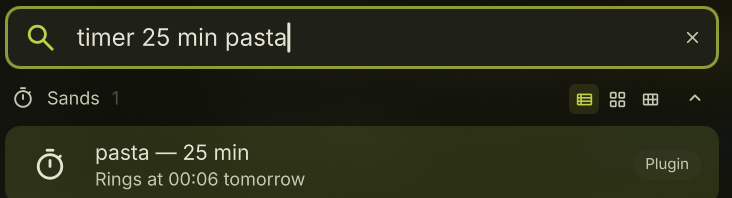
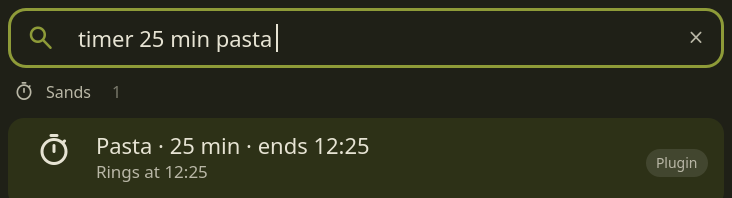
NAK 190 sands 1 5 0 sortie de version apr s les d coupages et le langage naturel (#17)
* docs(release): Sands 1.5.0 section, launcher picture and test counts (NAK-190)

* fix(pill): restore the 30 Hz final-countdown beat dropped by the release commit (NAK-190)

The release commit reverted the NAK-194 code but not its notes. The code is back
(components, bench scenes, CONTRIBUTING) and the changelog line moves to Unreleased
because the v1.5.0 tag does not contain it.

* chore(release): Sands 1.5.1 — ships the idle-timer change missing from 1.5.0 (NAK-190)

diff --git a/scripts/preview/launcher-shot.qml b/scripts/preview/launcher-shot.qml
@@ -1,0 +1,175 @@
+import QtQuick
+import QtQuick.Window
+import qs.Widgets
+import "../../TimeParser.js" as TP
+import "../../Preview.js" as Preview
+
+// Offscreen picture of the launcher row for docs/images/launcher.png: the real
+// parser and preview lines (what TimerLauncher builds) answer a made-up query,
+// drawn inside a stand-in of the DMS launcher. The clock is a fixed instant,
+// so "ends 12:25" never depends on the machine.
+// Usage: TZ=UTC QT_QPA_PLATFORM=offscreen qml-qt6 -I imports launcher-shot.qml -- <out.png>
+Window {
+    id: win
+
+    readonly property string out: Qt.application.arguments[Qt.application.arguments.length - 1]
+    readonly property string query: "timer 25 min pasta"
+    // Olive palette of the original picture, so the guide keeps its look
+    readonly property color bg: "#1f2017"
+    readonly property color accent: "#8e9b38"
+    readonly property color text: "#e6e3d3"
+    readonly property color muted: "#b9b7a6"
+    property var item: ({
+            name: "",
+            comment: ""
+        })
+
+    width: 732
+    height: 198
+    visible: true
+
+    Rectangle {
+        anchors.fill: parent
+        color: win.bg
+    }
+
+    Component.onCompleted: {
+        const now = Date.UTC(2026, 9, 9, 12, 0, 0);
+        const r = TP.parse(win.query, now, {
+            keyword: false
+        })[0];
+        win.item = {
+            name: Preview.previewLine(r, now, true),
+            comment: Preview.ringsLine(r, now, true)
+        };
+    }
+
+    // Search field
+    Rectangle {
+        x: 8
+        y: 8
+        width: parent.width - 16
+        height: 60
+        radius: 18
+        color: "transparent"
+        border.width: 3
+        border.color: win.accent
+
+        DankIcon {
+            x: 18
+            anchors.verticalCenter: parent.verticalCenter
+            name: "search"
+            size: 30
+            color: win.accent
+        }
+        StyledText {
+            id: typed
+            x: 70
+            anchors.verticalCenter: parent.verticalCenter
+            text: win.query
+            font.pixelSize: 22
+            color: win.text
+        }
+        Rectangle {
+            x: typed.x + typed.implicitWidth + 4
+            anchors.verticalCenter: parent.verticalCenter
+            width: 2
+            height: 28
+            color: win.text
+        }
+        DankIcon {
+            anchors.right: parent.right
+            anchors.rightMargin: 18
+            anchors.verticalCenter: parent.verticalCenter
+            name: "close"
+            size: 20
+            color: win.muted
+        }
+    }
+
+    // Section header
+    DankIcon {
+        x: 14
+        y: 82
+        name: "timer"
+        size: 20
+        color: win.muted
+    }
+    StyledText {
+        x: 46
+        y: 82
+        height: 20
+        text: "Sands"
+        font.pixelSize: 16
+        color: win.muted
+    }
+    StyledText {
+        x: 112
+        y: 82
+        height: 20
+        text: "1"
+        font.pixelSize: 16
+        color: Qt.rgba(win.muted.r, win.muted.g, win.muted.b, 0.6)
+    }
+
+    // The result row
+    Rectangle {
+        x: 8
+        y: 118
+        width: parent.width - 16
+        height: 90
+        radius: 16
+        color: "#2d3117"
+
+        DankIcon {
+            x: 28
+            y: 14
+            name: "timer"
+            size: 36
+            color: win.text
+        }
+        StyledText {
+            x: 88
+            y: 12
+            width: 480
+            height: 30
+            text: win.item.name
+            font.pixelSize: 22
+            color: win.text
+        }
+        StyledText {
+            x: 88
+            y: 42
+            width: 480
+            height: 24
+            text: win.item.comment
+            font.pixelSize: 17
+            color: win.muted
+        }
+        Rectangle {
+            anchors.right: parent.right
+            anchors.rightMargin: 16
+            anchors.verticalCenter: parent.verticalCenter
+            width: 62
+            height: 28
+            radius: 14
+            color: Qt.rgba(1, 1, 1, 0.1)
+
+            StyledText {
+                anchors.centerIn: parent
+                text: "Plugin"
+                font.pixelSize: 14
+                color: win.muted
+            }
+        }
+    }
+
+    Timer {
+        interval: 600
+        running: true
+        onTriggered: win.contentItem.grabToImage(r => {
+            r.saveToFile(win.out);
+            Qt.quit();
+        })
+    }
+}

diff --git a/scripts/preview/shot.qml b/scripts/preview/shot.qml
@@ -9,7 +9,9 @@ import "mock"
 // Usage: QT_QPA_PLATFORM=offscreen qml -I imports shot.qml -- <mode> <out.png>
 // Modes:
 //   pill-idle, pill-running, pill-label (right after a start), pill-done,
-//   pill-4 (four timers), panel, panel-paused, panel-ringing, panel-4
+//   pill-4 (four timers), pill-beat (final-countdown beat), pill-bell (ringing
+//   with the sound on, the bell swings), pill-short (a 2 min timer: the ring
+//   steps 0.8 % a second, so its Behavior plays; the three bench only), panel, panel-paused, panel-ringing, panel-4
 //   (four 1 h timers), panel-toggle (pause and resume every 2 s, bench
 //   only, with "-hold"), hourglass-running, hourglass-frozen, hourglass-ringing
 // Suffixes: "-reduce" turns Reduce motion on (the sand and the float stand
@@ -35,6 +37,9 @@ Window {
             "pill-running": [["running", "Pasta", 20 * mm, 12 * mm + 34000, 0]],
             "pill-label": [["running", "Pasta", 20 * mm, 12 * mm + 34000, 0]],
             "pill-done": [["ringing", "Tea", 4 * mm, 0, 0]],
+            "pill-beat": [["running", "Tea", 4 * mm, 9000, 0]],
+            "pill-bell": [["ringing", "Tea", 4 * mm, 0, 0]],
+            "pill-short": [["running", "Tea", 2 * mm, 110000, 0]],
             "pill-4": [["running", "Run", 60 * mm, 59 * mm, 0], ["running", "Bake", 60 * mm, 59 * mm + 1000, 1], ["running", "Read", 60 * mm, 59 * mm + 2000, 2], ["running", "Laundry", 60 * mm, 59 * mm + 3000, 3]],
             "panel": [["running", "Pasta", 20 * mm, 12 * mm + 34000, 0], ["running", "Laundry", 45 * mm, 31 * mm, 1]],
             "panel-paused": [["paused", "Pasta", 20 * mm, 12 * mm + 34000, 0]],
@@ -65,6 +70,7 @@ Window {
     property bool ready: false
     Component.onCompleted: {
         SettingsData.reduceMotion = win.reduce;
+        daemon.soundActive = win.mode === "pill-bell";
         daemon.load(win.scenes[win.mode] ?? []);
         PluginService.pluginDaemonInstances = {
             "smartTimer": daemon

diff --git a/components/PillClock.qml b/components/PillClock.qml
@@ -4,7 +4,9 @@ import QtQuick
 // Animators: those would make every DMS window redraw at the
 // display rate for as long as the alarm rings (possibly for
 // hours if nobody is there); this only redraws the bar. 60 Hz
-// for the quick beat and bell, 30 Hz for the slow breathing.
+// only for the quick bell swing (70 ms); the final-countdown beat
+// (110 ms rise) and the slow breathing look the same at 30 Hz and
+// cost half the bar redraws.
 //
 // An alarm nobody answers does not animate forever: like the
 // sound, the pill stops moving after the alarm duration and

diff --git a/components/HorizontalPill.qml b/components/HorizontalPill.qml
@@ -59,7 +59,7 @@ Item {
         id: clock
         daemon: pill.daemon
         timerState: pill.st
-        fast: pill.beating || pill.bellShaking
+        fast: pill.bellShaking
         running: !pill.asleep && ((pill.st === "ringing" && !clock.settled) || pill.beating)
     }
 

diff --git a/CHANGELOG.md b/CHANGELOG.md
@@ -5,6 +5,18 @@ The format follows [Keep a Changelog](https://keepachangelog.com/en/1.1.0/) and 
 
 ## Unreleased
 
+## 1.5.1 - 2026-10-09
+
+### Changed
+
+- The bar pill's final-countdown beat now ticks at 30 Hz instead of 60 Hz (the bell swing keeps 60 Hz): half the bar redraws during the last ten seconds, same beat. Offscreen bench, pill in its final countdown: 0.36 % → 0.21 % of one core (below the noise of this bench). Nothing animates while idle.
+
+### Fixed
+
+- 1.5.0 was published without the idle-timer change of NAK-194 (the pill's final-countdown beat stayed at 60 Hz). 1.5.1 ships it; the rest is documentation (launcher picture, test counts).
+
+## 1.5.0 - 2026-10-09
+
 ### Added
 
 - **A more natural launcher** (Win + Space), in English and French, nothing sent anywhere:
@@ -12,8 +24,10 @@ The format follows [Keep a Changelog](https://keepachangelog.com/en/1.1.0/) and 
   - **Natural clock times**: `wake me up at 7`, `réveille-moi à 7h`, `until 6pm`, `tonight at 9`, `ce soir à 9h`, `tomorrow at 8`, `demain 8h`, `noon`, `midi`, `minuit`, `7 du soir`, `7 in the morning`. A bare hour after `at` / `à` is the next occurrence within 24 h; `tomorrow` is the next calendar day. `8h` alone lists both readings (8 h timer, then 08:00) and nothing starts before Enter.
   - **One-line preview** under what you type: `Pasta · 12 min · ends 12:42`, `Wake up · at 07:00 tomorrow`, `Timer · 12 min · ends 12:42` (no name), with `Rings in/at …` below.
   - **Unknown words**: a timer keyword with nothing readable shows `Unknown word « … »` and Enter opens the guide.
-  - Documented in the new guide sections *Natural phrases* and *What the launcher shows*, and in the README *Launcher syntax*. Per-keystroke cost of the parser: not measured yet (the Performance Engineer's bench of NAK-153 will give the figure).
+  - Documented in the new guide sections *Natural phrases* and *What the launcher shows*, and in the README *Launcher syntax*. Per-keystroke cost of the parser: not measured.
   - Delivered in four parts: NAK-150 (durations), NAK-151 (clock times), NAK-152 (preview), NAK-153 (documentation).
+- `sounds/` with the two rings (41 KB), and `tools/sounds/`, the script that renders Hourglass bit for bit (python3 and ffmpeg).
+- Offscreen preview scenes in `scripts/preview/` (pill, panel, hourglass, four timers) rendered from made-up timers, with reference pictures and a compare script, so refactors can be proven pixel-identical. Development tooling only: the plugin loads nothing from it and nothing changes for users. See *Offscreen previews and bench* in `CONTRIBUTING.md`.
 
 ### Changed
 
@@ -22,14 +36,6 @@ The format follows [Keep a Changelog](https://keepachangelog.com/en/1.1.0/) and 
 - Internal only: `TimerWidget.qml` (19 KB) is split by role into small files in `components/` (horizontal and vertical pill, glyph, name, time, badge, motion clock, hover, clicks). The pill scenes are byte-identical to their reference pictures (panel scenes within their tolerance), and the pill's timers and animations are unchanged (nothing runs at rest). See *Project layout* in `CONTRIBUTING.md`.
 - The default alarm is now **Hourglass**, a soft four-note glass ring made for Sands, instead of the freedesktop alarm clock. **Silt Chime**, a short bell (CC0), is the second choice in *Sound*.
 - The former default is now a normal entry in the list of installed sounds. A sound you picked yourself keeps playing; only an unset *Sound* (or the former "Alarm clock (default)") now plays Hourglass.
-
-### Added
-
-- `sounds/` with the two rings (41 KB), and `tools/sounds/`, the script that renders Hourglass bit for bit (python3 and ffmpeg).
-- Offscreen preview scenes in `scripts/preview/` (pill, panel, hourglass, four timers) rendered from made-up timers, with reference pictures and a compare script, so refactors can be proven pixel-identical. Development tooling only: the plugin loads nothing from it and nothing changes for users. See *Offscreen previews and bench* in `CONTRIBUTING.md`.
-
-### Changed
-
 - A lighter download: the README and guide images weigh 1.62 MB instead of 1.97 MB (-18 %). PNGs are recompressed without any pixel change; the two animations (`freeze.gif`, `flip.gif`) use a light lossy GIF pass whose largest per-frame difference is invisible (worst frame 49.8 dB PSNR). Names, sizes, frame counts, delays and looping are unchanged.
 - Internal: `TimerDaemon.qml` (27 KB) is split by role into `components/daemon/` (persistence, sounds, end notification, `dms ipc` commands) with its pure rules in tested `.js` files. Behaviour is unchanged: same IPC answers, alarm, notification and saved state, and nothing new runs at rest. A small test (`tests/daemon-surface.test.js`) checks that every daemon member the views read is still declared.
 

diff --git a/CONTRIBUTING.md b/CONTRIBUTING.md
@@ -58,6 +58,8 @@ Logic that can be tested lives in **pure `.js` files** with no QML:
 - `Guide.js`: the short notes shown when something can't be done (title, hint, guide anchor); a test checks every anchor exists in `docs/GUIDE.md`.
 - `components/Motion.js`: every looping motion as a pure function of time.
 
+**Motion timers.** Nothing animates with QML animations while idle. The pill's single motion clock is `components/PillClock.qml`, driven by `HorizontalPill.qml`: 16 ms only for the bell swing, 33 ms for the final-countdown beat and the breathing; it runs only while ringing or beating and stops after the alarm duration. The panel's sand clock is `components/hourglass/MotionClock.qml` (33 ms once the sand is settled, stopped under Reduce motion).
+
 Timers are stored as **end times**, not countdowns, so they survive a restart.
 
 ## Project layout
@@ -122,15 +124,15 @@ The panel parts show what they are given and report what the user does with sign
 ## Tests
 
 ```sh
-gjs tests/parser.test.js        # 108 parser tests
+gjs tests/parser.test.js        # 216 parser tests
 gjs tests/motion.test.js
 gjs tests/timers.test.js        # timer logic and sound choice tests
 gjs tests/preview.test.js       # launcher preview lines
-gjs tests/guide.test.js         # 18 tests: note length, guide anchors
+gjs tests/guide.test.js         # 23 tests: note length, guide anchors
 gjs tests/lifecycle.test.js     # 48 tests: transitions, expiry, wake-up, restore
 gjs tests/sound.test.js         # 33 tests: sound file and rings, volume, ramp, player command
 gjs tests/daemon-text.test.js   # 22 tests: IPC sentences, notification commands
-gjs tests/daemon-surface.test.js # 21 tests: every daemon member a view reads is still declared
+gjs tests/daemon-surface.test.js # 11 tests: every daemon member a view reads is still declared
 gjs tests/hourglass.test.js     # 35 checks: hourglass geometry, volumes, outline, frost shapes
 ```
 
@@ -145,9 +147,10 @@ scripts/preview/shots.sh /tmp/sands-shots              # every scene of manifest
 scripts/preview/shots.sh /tmp/sands-shots panel pill-4 # only some of them
 scripts/preview/cmp.sh /tmp/sands-shots                # compare with scripts/preview/reference/
 TZ=UTC QT_FORCE_STDERR_LOGGING=1 QT_QPA_PLATFORM=offscreen qml-qt6 -I scripts/preview/imports scripts/preview/launcher.qml   # launcher: prints each query's lines as text
+TZ=UTC QT_QPA_PLATFORM=offscreen qml-qt6 -I scripts/preview/imports scripts/preview/launcher-shot.qml -- out.png   # docs/images/launcher.png: the launcher row from made-up input, fixed clock
 ```
 
-Scenes (`shot.qml -- <scene> <out.png>`): `pill-idle`, `pill-running`, `pill-label` (right after a start), `pill-done`, `pill-4`, `panel`, `panel-paused`, `panel-ringing`, `panel-4` (four 1 h timers), `hourglass-running`, `hourglass-frozen`, `hourglass-ringing`. The suffix `-reduce` turns Reduce motion on.
+Scenes (`shot.qml -- <scene> <out.png>`): `pill-idle`, `pill-running`, `pill-label` (right after a start), `pill-done`, `pill-4`, `panel`, `panel-paused`, `panel-ringing`, `panel-4` (four 1 h timers), `hourglass-running`, `hourglass-frozen`, `hourglass-ringing`. Bench-only scenes (not in the reference set): `pill-beat`, `pill-bell`, `pill-short`. The suffix `-reduce` turns Reduce motion on.
 
 **Refactors must keep the pictures.** `cmp.sh` checks each picture against `reference/` and the hash in `manifest.txt`. A scene is byte-identical (tolerance 0) when nothing moves: the pills and most `-reduce` scenes (`panel-4-reduce` and `panel-ringing-reduce` showed 3 and 5 px in some runs, so they have 10). The scenes with sand and float moving carry a few pixels of noise between two runs of the same code (0 to 7 px measured), so they have a small tolerance in `manifest.txt`. When a change is meant to alter the look, re-render and run `cmp.sh --update <dir>` in the same commit, and say why in the message.
 
